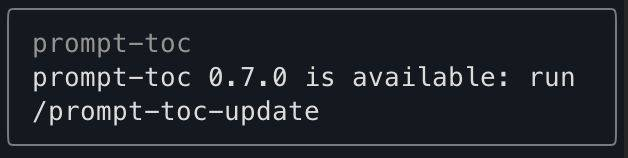
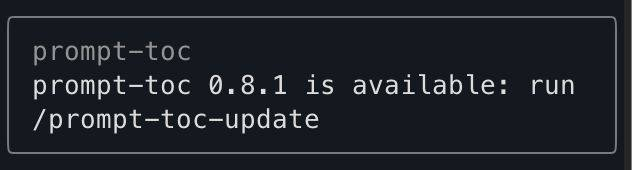
docs(prompt-toc): refresh update toast screenshot to 0.8.1

diff --git a/plugins/prompt-toc/README.md b/plugins/prompt-toc/README.md
@@ -22,7 +22,7 @@ Needs Claude Code 2.1.287 or later (mods load by default) and `python3` on `PATH
 
 At each session start a toast says when a newer version is published (the version list is fetched at most every 10 minutes).
 
-![The update toast: prompt-toc 0.7.0 is available: run /prompt-toc-update](https://raw.githubusercontent.com/weskao/weskao-agent-plugins/main/assets/prompt-toc/update-toast-prompt-toc.jpeg)
+![The update toast: prompt-toc 0.8.1 is available: run /prompt-toc-update](https://raw.githubusercontent.com/weskao/weskao-agent-plugins/main/assets/prompt-toc/update-toast-prompt-toc.jpeg?v=2)
 
 ![prompt-toc demo: click a prompt in the side pane and the transcript scrolls to it](https://raw.githubusercontent.com/weskao/weskao-agent-plugins/main/assets/prompt-toc/demo.gif?v=5)
 
